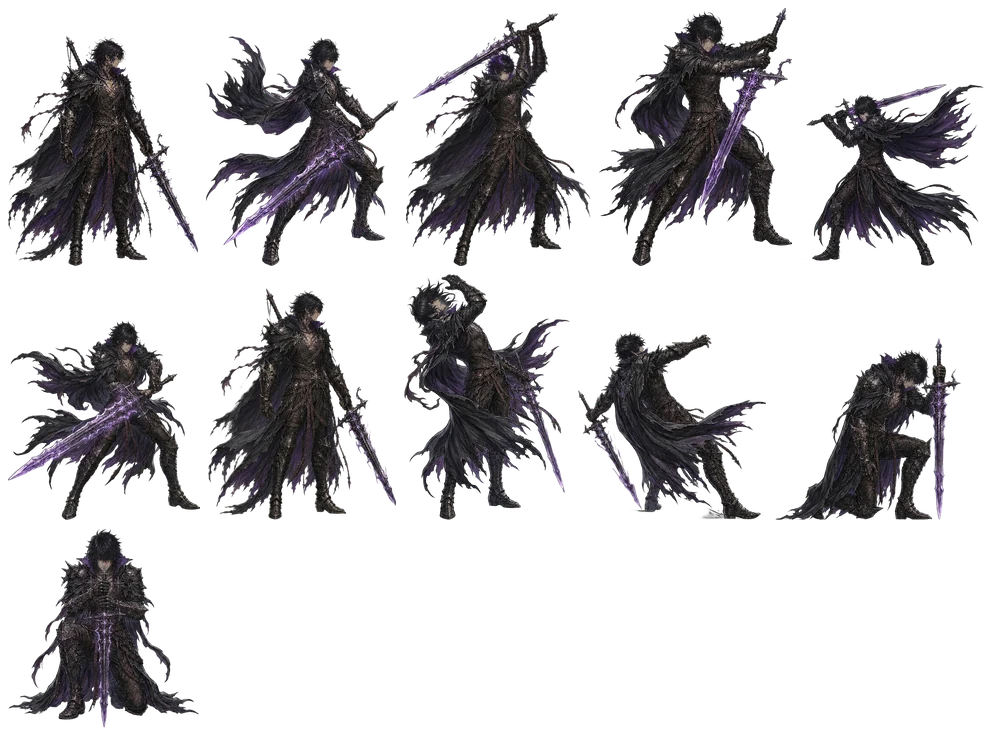
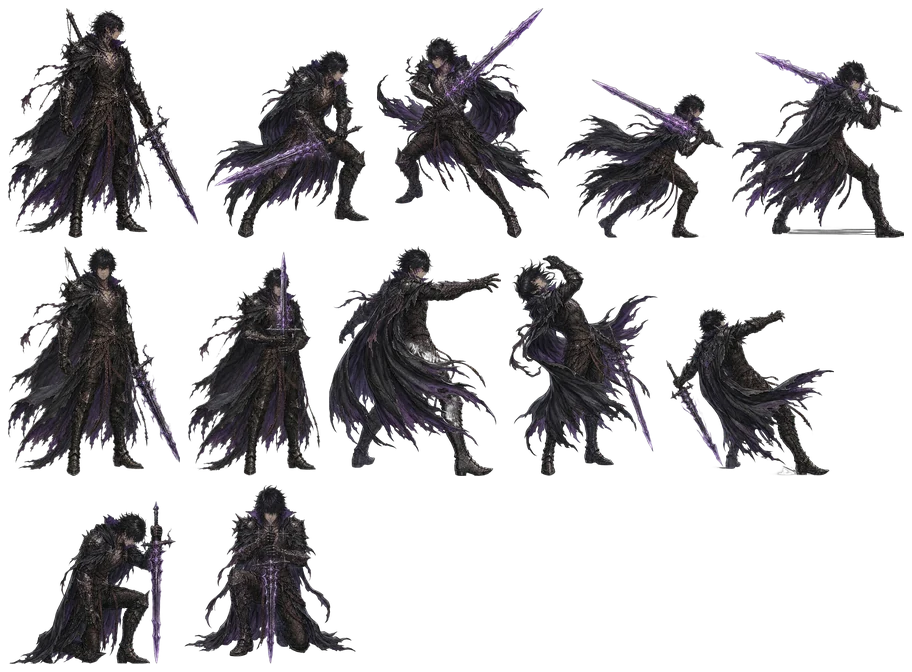
v2.2 Build 47 — the tree is pressable, and Ash fights like a ronin
THE TREE. Pressing a skill node was not merely fiddly, it was structurally
impossible: attachStarView captured the pointer on pointerdown, so every
following event retargeted to #et-star and the browser fired the CLICK there
rather than on the orb under the finger. Instrumented, every press logged
'up:et-star, click:et-star'. Capture now waits until the finger has really
travelled past the tap slop; a pinch still captures at once, being unambiguous.

The drag detector also measured the wrong thing -- it summed |dx|+|dy| across
every pointermove, which is PATH LENGTH, not displacement. A finger resting on
a node jitters a pixel at a time and a dozen events crossed the threshold of 7,
so the tap was thrown away as a pan. It tracks the furthest offset from where
the finger landed now, against a real 12px slop.

And the targets were half-size. Measured at the framed zoom an orb's glyph
renders 22px, under every platform's 44px minimum, because the camera scale
shrinks it. etApplyView publishes that scale as --etk and each orb carries a
counter-scaled transparent pad holding ~46 real px at any zoom; measured at
46px with 18px of clearance between the closest pair, so no pad steals its
neighbour's taps.

ASH. HEROES.ash is a Ronin / Skirmisher who 'strikes and slips, repositions as
he attacks'. The first pass gave him a greatsword raised overhead and chopped
down, which reads as a berserker and is the wrong character. His frames are now
[…]

diff --git a/v2.2/game.js b/v2.2/game.js
@@ -21,7 +21,7 @@
 
 'use strict';
 
-const V2_BUILD = 46;   // MUST match version.json's "v2.2" — the update-check compares them. Bump BOTH every build.
+const V2_BUILD = 47;   // MUST match version.json's "v2.2" — the update-check compares them. Bump BOTH every build.
 const CHARGE_CAP = 4;   // Hask (Black Mage) — max CHARGE stacks
 const CHARGE_DMG = 3;   // damage per CHARGE spent by an OVERLOAD nuke
 const MISFIRE_PER_CHARGE = 2;   // self-damage per ◆ CHARGE if Hask MOVES mid-channel (no Steady Cast)
@@ -4680,25 +4680,34 @@ const FOE_ANIM_PLAY = {
 const HERO_ANIM = {
   ash: 'hero-ash-anim.webp',
 };
-const HERO_ANIM_SHEET = { w: 992, h: 736 };
+const HERO_ANIM_SHEET = { w: 912, h: 672 };
+// ASH IS A RONIN, AND A SKIRMISHER — "strikes and slips, repositions as he
+// attacks".  The first pass gave him a berserker's overhead chop, which is the
+// wrong character: these frames are a low coiled draw, a rising cut out of it,
+// a lateral pass at full extension, and the landing past with his head turned
+// back over his shoulder.  GUARD and THROW exist because his kit asks for them
+// — Crossguard and Flowing Cut are blocks, and Thrown Edge throws before it
+// closes — so the pose follows the CARD, not just "he did damage".
 const HERO_ANIM_ATLAS = {
-  idle:     [[8, 36, 190, 230]],
-  prep:     [[206, 36, 192, 230],[406, 13, 185, 253]],
-  // ATTACK carries its OWN wind-up: draw-back, raise, down, extension,
-  // follow-through.  One trigger tells the whole swing, so the caller stays
-  // the single `lungeFig` beat it always was.
-  attack:   [[206, 36, 192, 230],[406, 13, 185, 253],[599, 8, 193, 258],[800, 84, 184, 182],[8, 320, 192, 200]],
-  recovery: [[208, 288, 188, 232]],
-  hit:      [[404, 274, 166, 246]],
-  heavy:    [[578, 331, 188, 189]],
+  idle:     [[8, 8, 190, 230]],
+  prep:     [[206, 49, 163, 189]],
+  // ATTACK carries its own wind-up: the coil, then the three cut frames.
+  attack:   [[206, 49, 163, 189],[377, 8, 172, 230],[557, 79, 167, 159],[732, 52, 172, 186]],
+  recovery: [[8, 246, 172, 230]],
+  guard:    [[188, 251, 133, 225]],
+  throw:    [[329, 246, 172, 230]],
+  hit:      [[509, 255, 149, 221]],
+  heavy:    [[666, 307, 168, 169]],
   // DEATH opens on the heavy-hit stagger, then sinks through both kneels.
-  death:    [[578, 331, 188, 189],[774, 338, 187, 182],[8, 528, 191, 200]],
+  death:    [[666, 307, 168, 169],[8, 501, 168, 163],[184, 484, 172, 180]],
 };
 const HERO_ANIM_PLAY = {
   idle:     { ms: 900, loop: true },
   prep:     { ms: 170, hold: true },
-  attack:   { ms: 92, then: 'recovery' },     // 5 frames ~= the 420ms strike beat
+  attack:   { ms: 105, then: 'recovery' },    // 4 frames ~= the 420ms strike beat
   recovery: { ms: 200, then: 'idle' },
+  guard:    { ms: 520, then: 'idle' },        // the brace holds, then settles
+  throw:    { ms: 300, then: 'recovery' },    // released, then back to guard
   hit:      { ms: 260, then: 'idle' },
   heavy:    { ms: 300, then: 'idle' },
   broken:   { ms: 420, loop: true, frames: 'heavy' },
@@ -4769,6 +4778,16 @@ function foeAnimTick() {
 // ---------------------------------------------------------------------------
 // HAND
 // ---------------------------------------------------------------------------
+// WHICH POSE A CARD ASKS FOR.  An attacking card is deliberately absent: its
+// swing is fired by `lungeFig` at the moment the blow LANDS, so the cut stays
+// married to the impact instead of playing early. What is left is the shape of
+// the act — a block is a block, and a throw is a throw.
+function heroPoseForCard(card) {
+  const fx = (card && card.fx) || {};
+  if (fx.step) return 'throw';                     // thrown, then he closes
+  if (!fx.dmg && (fx.guard || fx.counter)) return 'guard';
+  return null;
+}
 function cardType(card) {
   if (card.kind === 'resonant') return 'resonant';
   if (card.kind === 'temp') return 'temp';
@@ -6024,6 +6043,8 @@ async function resolveCard(card, targetId) {
     owner._held = true;
     owner._actSeq = S._actSeq = (S._actSeq || 0) + 1;   // recency — the last actor paints on top
     beginCastAnim(owner, card);
+    const pose = heroPoseForCard(card);
+    if (pose) foeAnimState(owner.id, pose);
   }
 
   const fx = card.fx || {};
@@ -13892,6 +13913,12 @@ function etApplyView(animate) {
   if (!view) return;
   view.style.transition = animate ? 'transform 420ms cubic-bezier(.25,.9,.3,1)' : 'none';
   view.style.transform = `translate(${ET_VIEW.x.toFixed(1)}px, ${ET_VIEW.y.toFixed(1)}px) scale(${ET_VIEW.k.toFixed(3)})`;
+  // Publish the camera scale so a node's TOUCH TARGET can be counter-scaled and
+  // hold a constant size on screen. Measured at the framed zoom, an orb's glyph
+  // renders 22px — half of any platform's minimum, which is most of why the
+  // tree felt unpressable. The drawing may shrink with the camera; the thing
+  // you aim at must not.
+  view.style.setProperty('--etk', ET_VIEW.k.toFixed(3));
   const star = document.getElementById('et-star');
   if (star) star.classList.toggle('et-zoomed', ET_VIEW.k > (ET_VIEW.fit || 1) * 1.04);
 }
@@ -13937,12 +13964,16 @@ function etZoomBy(f) {
   ET_VIEW.k = Math.max(ET_KMIN, Math.min(ET_KMAX, ET_VIEW.k * f));
   etApplyView(true);
 }
+// How far a finger may wander and still be a TAP. Platform tap slop is ~10px;
+// this is measured on the raw pointer, so it is honest screen distance whatever
+// the stage scale or the camera zoom happen to be.
+const TREE_TAP_SLOP = 12;
 function attachStarView() {
   const star = document.getElementById('et-star');
   if (!star || star._viewBound) return;
   star._viewBound = true;
   const pts = new Map();
-  let last = null, pinch = 0, moved = 0;
+  let last = null, pinch = 0, origin = null, maxOff = 0, captured = false;
   const mid = () => {
     const a = [...pts.values()];
     return { x: (a[0].x + a[1].x) / 2, y: (a[0].y + a[1].y) / 2,
@@ -13950,9 +13981,14 @@ function attachStarView() {
   };
   star.addEventListener('pointerdown', e => {
     pts.set(e.pointerId, { x: e.clientX, y: e.clientY });
-    if (pts.size === 1) { last = { x: e.clientX, y: e.clientY }; moved = 0; }
-    if (pts.size === 2) pinch = mid().d;
-    try { star.setPointerCapture(e.pointerId); } catch (_) {}
+    if (pts.size === 1) { last = { x: e.clientX, y: e.clientY }; origin = { x: e.clientX, y: e.clientY }; maxOff = 0; captured = false; }
+    // CAPTURE ONLY ONCE A DRAG IS REAL.  Capturing on pointerdown retargets
+    // every following event to #et-star, so the browser fires the CLICK on the
+    // star and never on the orb underneath the finger — which made pressing a
+    // node impossible rather than merely fiddly.  A pinch is unambiguous, so
+    // the second pointer may capture straight away; a single pointer waits
+    // until it has travelled past the tap slop.
+    if (pts.size === 2) { pinch = mid().d; try { star.setPointerCapture(e.pointerId); } catch (_) {} captured = true; }
   });
   star.addEventListener('pointermove', e => {
     if (!pts.has(e.pointerId)) return;
@@ -13962,25 +13998,38 @@ function attachStarView() {
       const f = m.d / pinch;
       if (Math.abs(f - 1) > 0.008) {
         ET_VIEW.k = Math.max(ET_KMIN, Math.min(ET_KMAX, ET_VIEW.k * f));
-        pinch = m.d; moved = 99; ET_VIEW.auto = false; etApplyView(false);
+        pinch = m.d; maxOff = 999; ET_VIEW.auto = false; etApplyView(false);
       }
       return;
     }
     if (pts.size === 1 && last) {
       const dx = e.clientX - last.x, dy = e.clientY - last.y;
-      moved += Math.abs(dx) + Math.abs(dy);
+      // WHAT COUNTS AS A DRAG is how far the finger got FROM WHERE IT LANDED,
+      // not how far it travelled getting there. Summing |dx|+|dy| per move event
+      // accumulated: a finger resting on a node jitters a pixel at a time, a
+      // dozen events cross any small threshold, and the tap was thrown away as a
+      // pan. Nodes were genuinely hard to press. Track the furthest offset from
+      // the touch-down point instead, against a real tap slop.
+      if (origin) maxOff = Math.max(maxOff, Math.hypot(e.clientX - origin.x, e.clientY - origin.y));
+      last = { x: e.clientX, y: e.clientY };
+      if (!captured) {
+        if (maxOff <= TREE_TAP_SLOP) return;      // still a tap — leave the orb its click
+        try { star.setPointerCapture(e.pointerId); } catch (_) {}
+        captured = true;
+      }
       // pointer deltas are viewport pixels; the camera lives in layout pixels
       const sr = star.getBoundingClientRect();
       const S = sr.width / (star.offsetWidth || sr.width) || 1;
       ET_VIEW.x += dx / S; ET_VIEW.y += dy / S; ET_VIEW.auto = false;
-      last = { x: e.clientX, y: e.clientY };
       etApplyView(false);
     }
   });
   const up = e => {
     pts.delete(e.pointerId);
     if (pts.size < 2) pinch = 0;
-    if (pts.size === 0) { last = null; star._dragMoved = moved > 7; setTimeout(() => { star._dragMoved = false; }, 60); }
+    try { star.releasePointerCapture(e.pointerId); } catch (_) {}
+    if (pts.size === 0) { last = null; origin = null; captured = false;
+      star._dragMoved = maxOff > TREE_TAP_SLOP; setTimeout(() => { star._dragMoved = false; }, 60); }
   };
   star.addEventListener('pointerup', up);
   star.addEventListener('pointercancel', up);

diff --git a/v2.2/styles.css b/v2.2/styles.css
@@ -3326,6 +3326,24 @@ button.map-node:not(:disabled) { cursor: pointer; }
   position: absolute; transform: translate(-50%,-50%); z-index: 2;
   width: 62px; display: flex; flex-direction: column; align-items: center; gap: 3px;
   background: none; border: none; cursor: pointer; font-family: inherit; padding: 0;
+  -webkit-tap-highlight-color: transparent; touch-action: none;
+}
+/* A REAL TOUCH TARGET.  The glyph is 42px, and a sealed or unreachable node
+   hides its name — which shrinks the button to exactly that 42px circle, under
+   every platform's 44px minimum and smaller again once the stage scale lands on
+   a phone.  A transparent pad centred on the GLYPH (not on the button, whose
+   height changes with the label) gives every orb the same generous circle to
+   aim at without changing a pixel of what is drawn.  54px keeps it clear of
+   the ~108px on-screen ring step, so no two pads can overlap. */
+.et-orb::before {
+  content: ''; position: absolute; left: 50%; top: 21px;
+  transform: translate(-50%, -50%);
+  /* counter-scaled by the camera (--etk), so this stays ~46 REAL px however
+     far out the tree is zoomed.  Capped at 74 layout px so that at the framed
+     zoom, where orbs sit closest together, two pads still cannot overlap. */
+  width: min(74px, calc(46px / var(--etk, 1)));
+  height: min(74px, calc(46px / var(--etk, 1)));
+  border-radius: 50%; z-index: 0;
 }
 .et-orb-glyph {
   width: 42px; height: 42px; border-radius: 50%; display: flex; align-items: center; justify-content: center;

diff --git a/v2.2/index.html b/v2.2/index.html
@@ -14,7 +14,7 @@
   <meta name="apple-mobile-web-app-title" content="KIZUNA" />
   <link rel="icon" href="icon.svg" type="image/svg+xml" />
   <link rel="apple-touch-icon" href="icon-192.png" />
-  <link rel="stylesheet" href="styles.css?v=46" />
+  <link rel="stylesheet" href="styles.css?v=47" />
 </head>
 <body>
 
@@ -50,7 +50,7 @@
         <div id="combat-boons"></div>
         <div id="timeline"></div>
         <button id="menu-btn" aria-label="Menu" title="Menu">☰</button>
-        <div id="build-stamp">V2.2 BUILD 46</div>
+        <div id="build-stamp">V2.2 BUILD 47</div>
       </header>
       <div id="narrator"></div>
 
@@ -107,6 +107,6 @@
 
   <script src="portraits.js?v=4"></script>
   <script src="narrative.js?v=1"></script>
-  <script src="game.js?v=46"></script>
+  <script src="game.js?v=47"></script>
 </body>
 </html>

diff --git a/v2.2/tools/build-anim-sheet.py b/v2.2/tools/build-anim-sheet.py
@@ -61,6 +61,58 @@ def trim(im):
     return im.crop(box) if box else im
 
 
+def despeckle(im, keep=0.02):
+    """Drop opaque islands the figure is not attached to.
+
+    A background remover reliably leaves the drawn ground line under the feet
+    as its own little component -- a grey smear that reads as dirt once the
+    frame is 230px tall. Keep the largest connected region and anything within
+    `keep` of it (so a flung cloak wisp survives), drop the rest.
+    """
+    a = im.getchannel("A")
+    w, h = a.size
+    px = a.load()
+    lab = [0] * (w * h)
+    sizes = [0]
+    cur = 0
+    for sy in range(h):
+        for sx in range(w):
+            i = sy * w + sx
+            if lab[i] or px[sx, sy] <= 128:
+                continue
+            cur += 1
+            n = 0
+            stack = [i]
+            lab[i] = cur
+            while stack:
+                j = stack.pop()
+                n += 1
+                jy, jx = divmod(j, w)
+                for dx, dy in ((1, 0), (-1, 0), (0, 1), (0, -1)):
+                    nx, ny = jx + dx, jy + dy
+                    if 0 <= nx < w and 0 <= ny < h:
+                        k = ny * w + nx
+                        if not lab[k] and px[nx, ny] > 128:
+                            lab[k] = cur
+                            stack.append(k)
+            sizes.append(n)
+    if cur <= 1:
+        return im
+    big = max(sizes)
+    doomed = {c for c in range(1, cur + 1) if sizes[c] < keep * big}
+    if not doomed:
+        return im
+    out = im.copy()
+    oa = out.getchannel("A")
+    op = oa.load()
+    for y in range(h):
+        for x in range(w):
+            if lab[y * w + x] in doomed:
+                op[x, y] = 0
+    out.putalpha(oa)
+    return out
+
+
 def main(argv):
     if len(argv) < 3:
         print(__doc__)
@@ -75,7 +127,7 @@ def main(argv):
             return 2
         src, _, fac = src.partition("@")
         factor = float(fac) if fac else 1.0
-        fig = trim(key_out(load(src)))
+        fig = trim(despeckle(key_out(load(src))))
         # Each frame is normalised against the reference height it is DECLARED
         # to occupy, not stretched to fill one cell. That keeps the character
         # one size across the set while a kneel stays low and a raised blade

diff --git a/v2.2/docs/ANIM-PIPELINE.md b/v2.2/docs/ANIM-PIPELINE.md
@@ -26,8 +26,28 @@ pairs each sheet with its rects so one state machine and one ticker serve both
 sides without either knowing the other's rects exist. A figure carries the kit
 it was attached with, chosen by `data-anim-kit` on the layer.
 
-A hero's `attack` carries its own wind-up -- draw-back, raise, down, extension,
-follow-through -- so the caller stays the single `lungeFig` beat it always was.
+A hero's `attack` carries its own wind-up, so the caller stays the single
+`lungeFig` beat it always was.
+
+## 1b. Poses belong to the archetype, not to the weapon
+
+`HEROES[id]` carries `cls`, `archetype` and `identity`, and the poses have to
+answer them. Ash is a **Ronin / Skirmisher** who "strikes and slips,
+repositions as he attacks" -- the first pass gave him a generic greatsword
+raised overhead and chopped down, which reads as a berserker and is simply the
+wrong character. His frames are now a low coiled draw, a rising cut out of it,
+a lateral pass at full extension, and a landing past with his head turned back
+over his shoulder.
+
+Read the hero's CARDS too, and give the states they ask for. Ash blocks
+(Crossguard, Flowing Cut) and throws before he closes (Thrown Edge), so he has
+`guard` and `throw` frames, and `heroPoseForCard` picks between them:
+
+- `fx.step` -> `throw`
+- `fx.guard` or `fx.counter` with no `fx.dmg` -> `guard`
+- anything that deals damage -> nothing here, because `lungeFig` fires the
+  swing at the moment the blow LANDS and the cut must stay married to the
+  impact rather than playing early.
 
 ## 2. Composing a sheet
 
@@ -100,6 +120,15 @@ back `nsfw` and cost a retry. Reword toward posture rather than harm --
 **Cut out with the real remover.** A border flood-fill handles most frames but
 cannot reach background enclosed by an arm and a blade, and it leaves the soft
 ground shadow behind. `remove_background` on every frame is cheap and uniform.
+It still keeps a drawn ground line as its own island, which is what the
+compositor's despeckle pass is for -- though a line actually TOUCHING a boot is
+one component with the figure and survives both.
+
+**Measure the body, not the bounding box.** A blade is a few pixels wide and
+will happily count as "head": a guarding figure holding his sword upright
+measured TALLER than the same figure standing, so the factor shrank him. Take
+the first row that is torso-wide instead. With that, factor is simply the
+source's trimmed height over the shared canvas height.
 
 ### Egress
 
